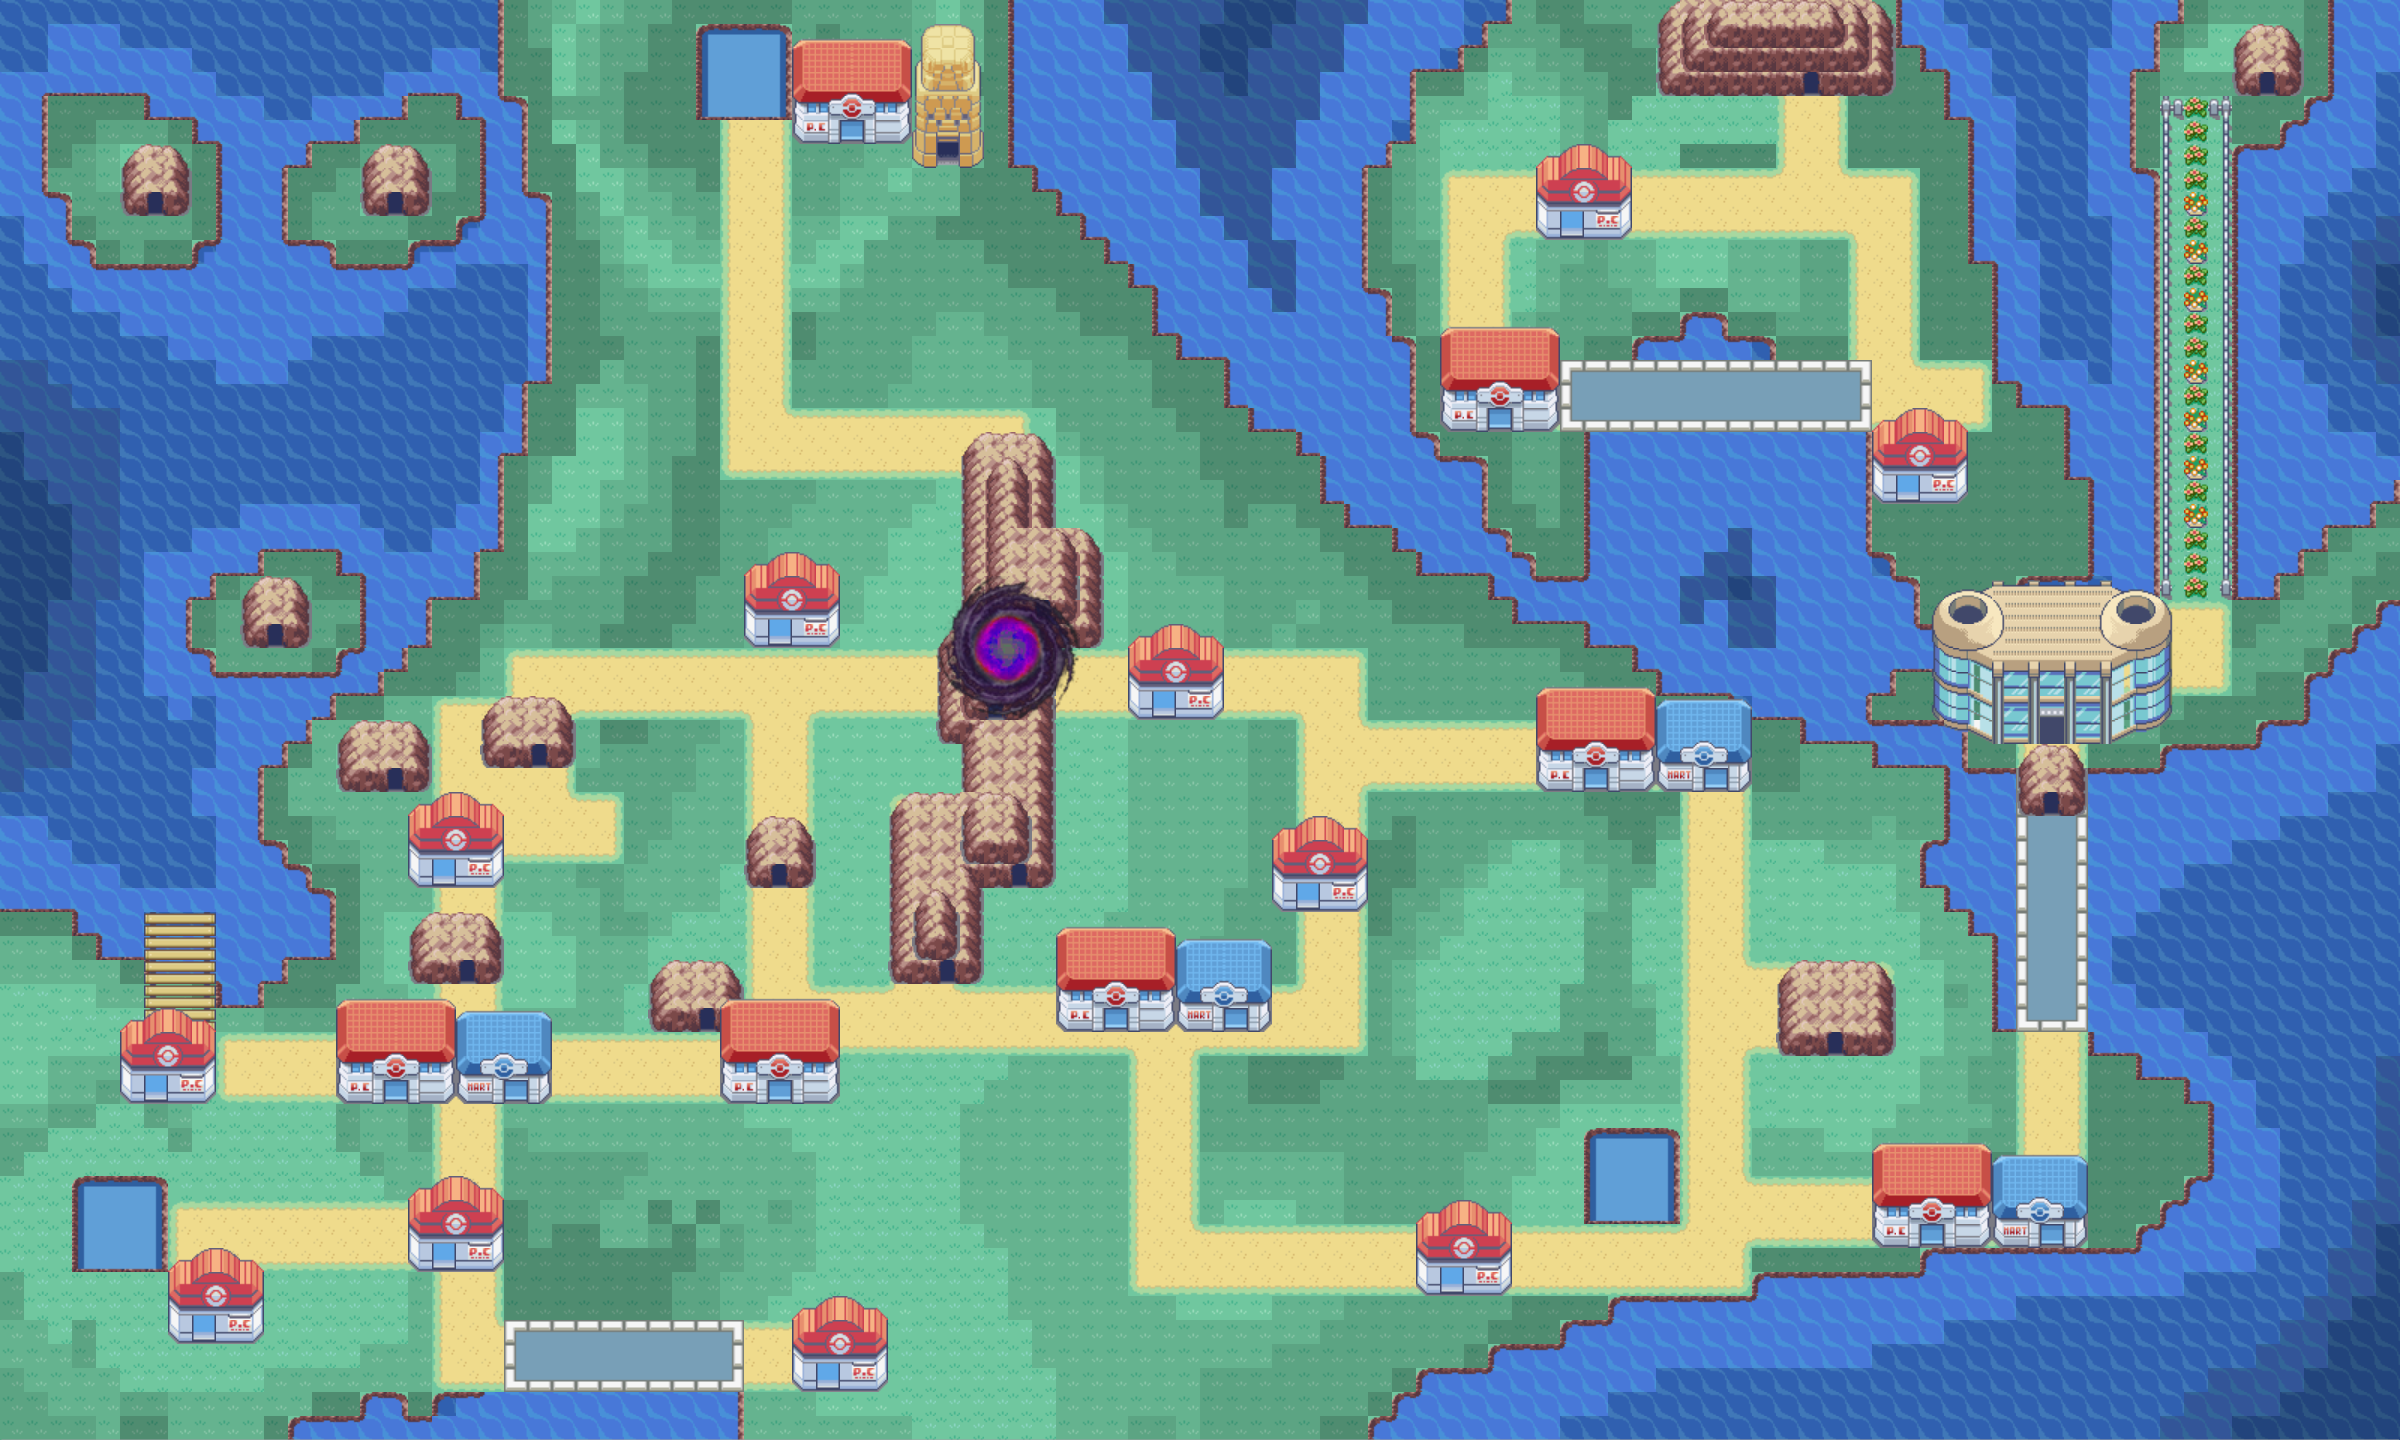
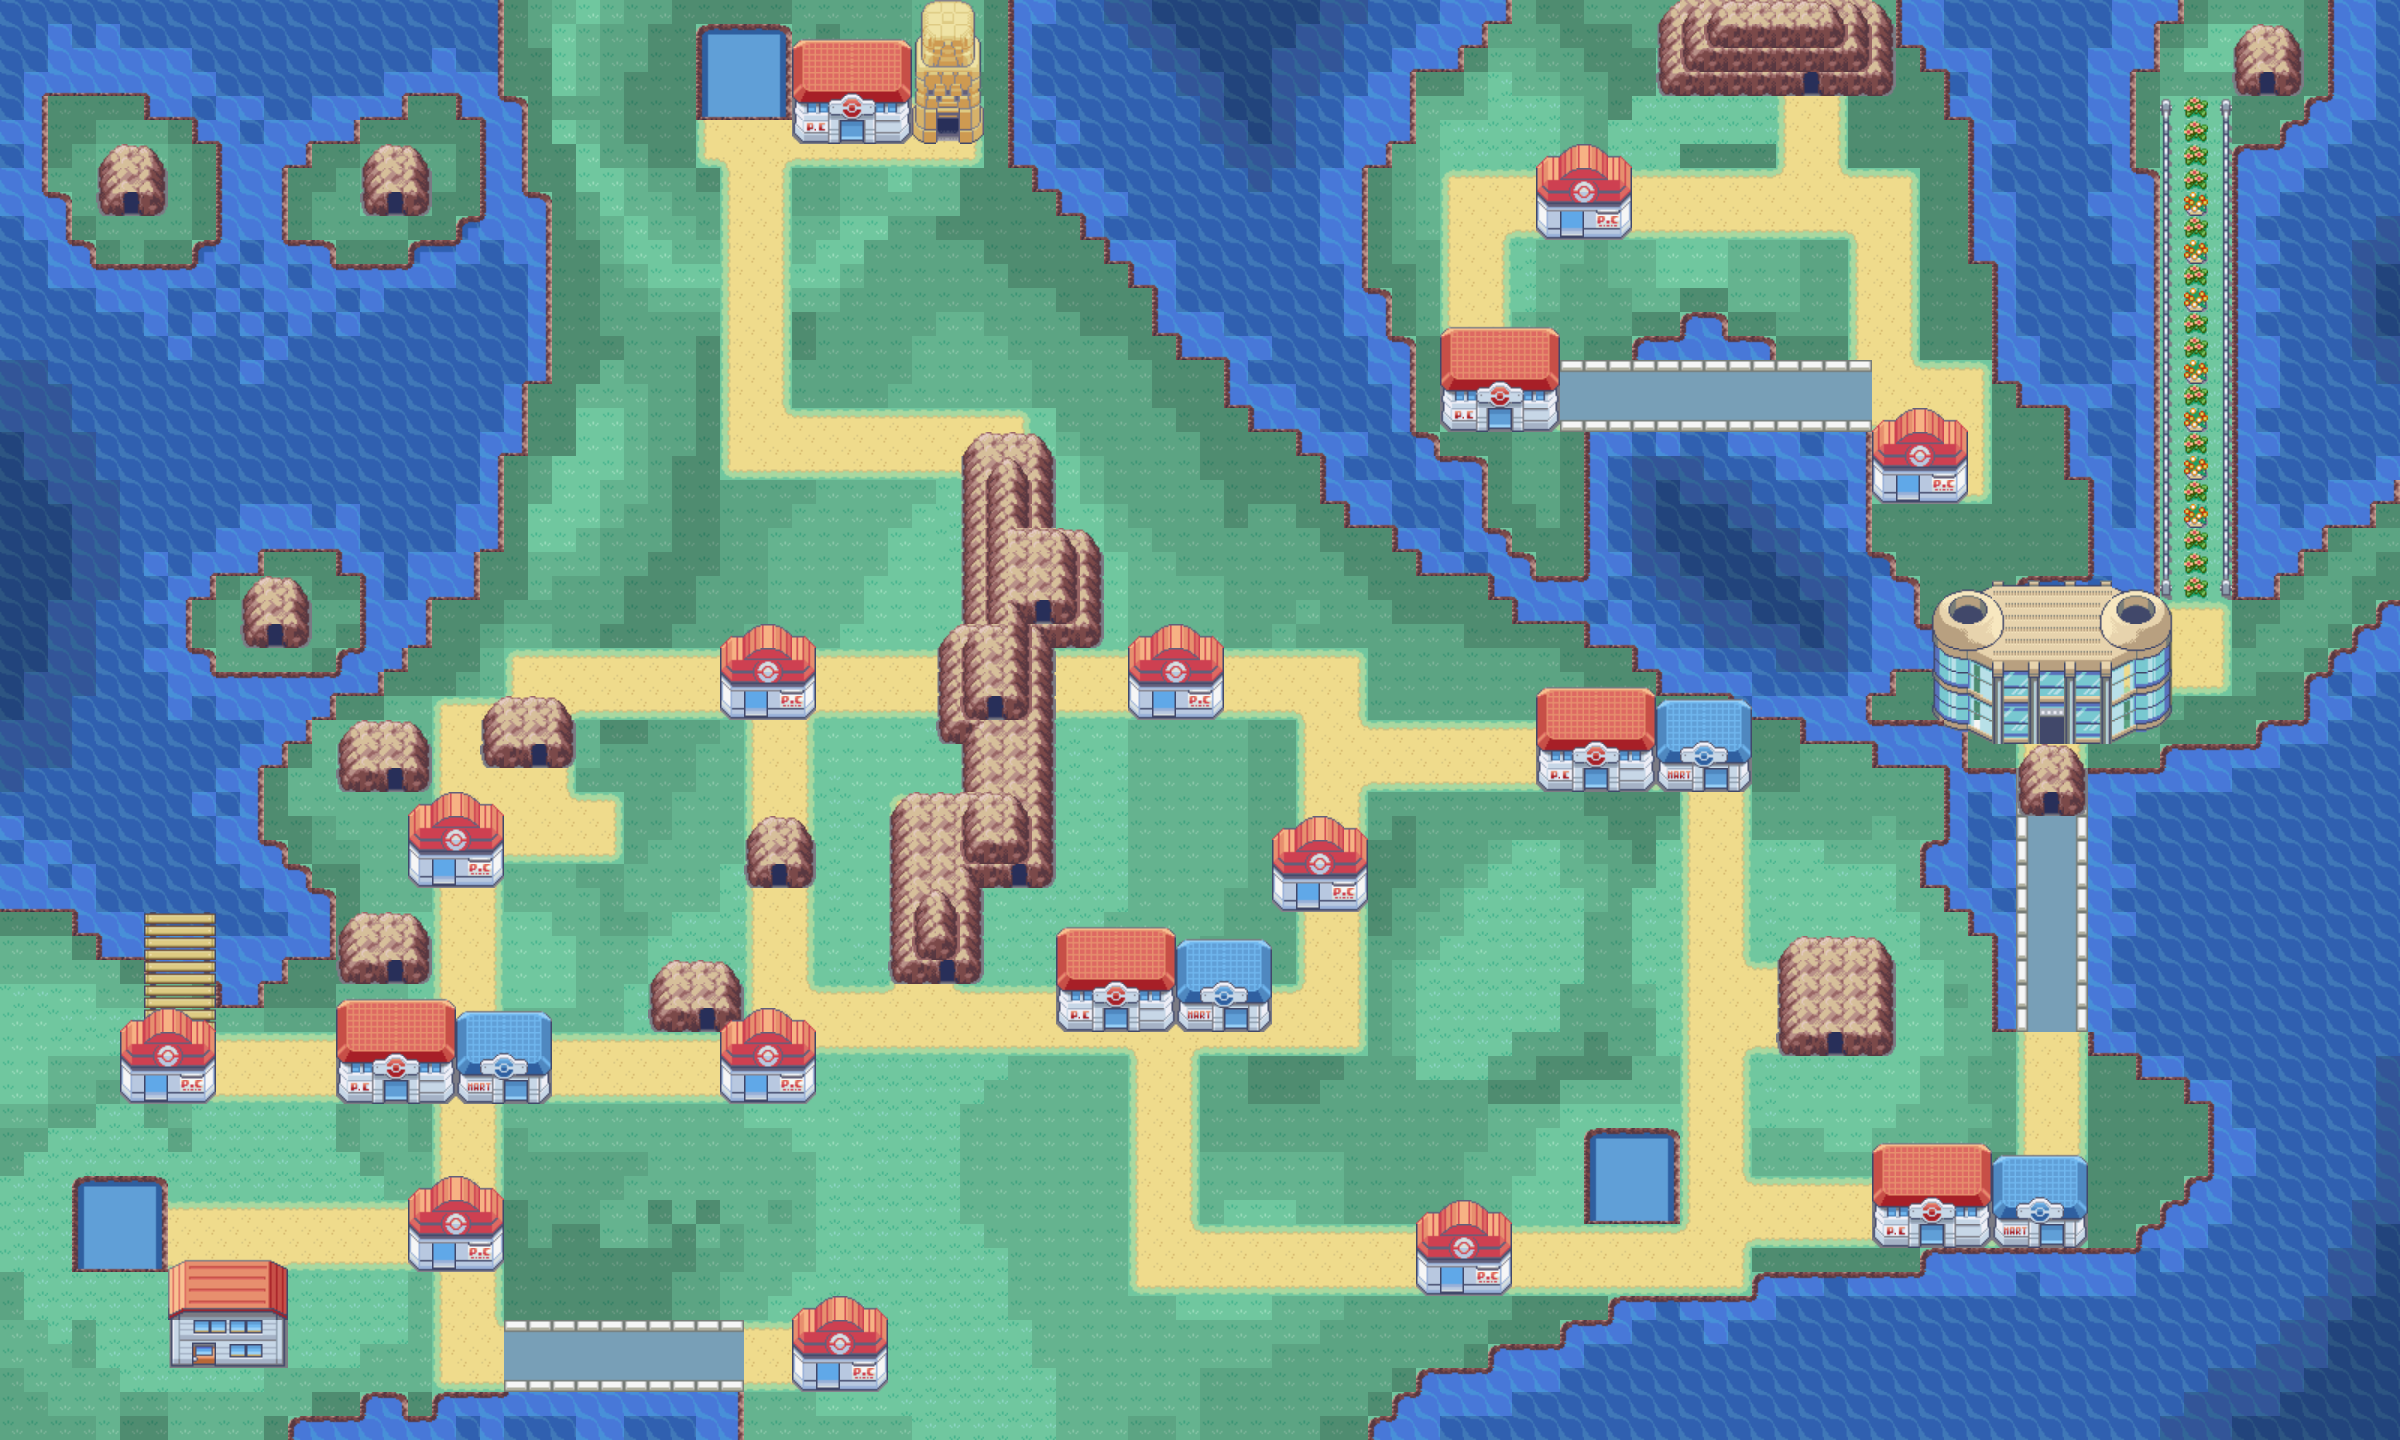
fix

diff --git a/src/components/SinnohSVG.html b/src/components/SinnohSVG.html
@@ -565,7 +565,7 @@
     <!--Ravaged Path-->
     <%- include('templates/mapDungeon',
         { name: "Ravaged Path"
-        , x: 17, y: 38
+        , x: 14, y: 38
         , height: 3, width: 4
         })
     %>
@@ -669,7 +669,7 @@
     <!--Fullmoon Island-->
     <%- include('templates/mapDungeon',
         { name: "Fullmoon Island"
-        , x: 5, y: 6
+        , x: 4, y: 6
         , height: 3, width: 3
         })
     %>
@@ -702,7 +702,7 @@
     <%- include('templates/mapDungeon',
         { name: "Stark Mountain"
         , x: 69, y: 0
-        , height: 10, width: 4
+        , height: 4, width: 10
         })
     %>
 
